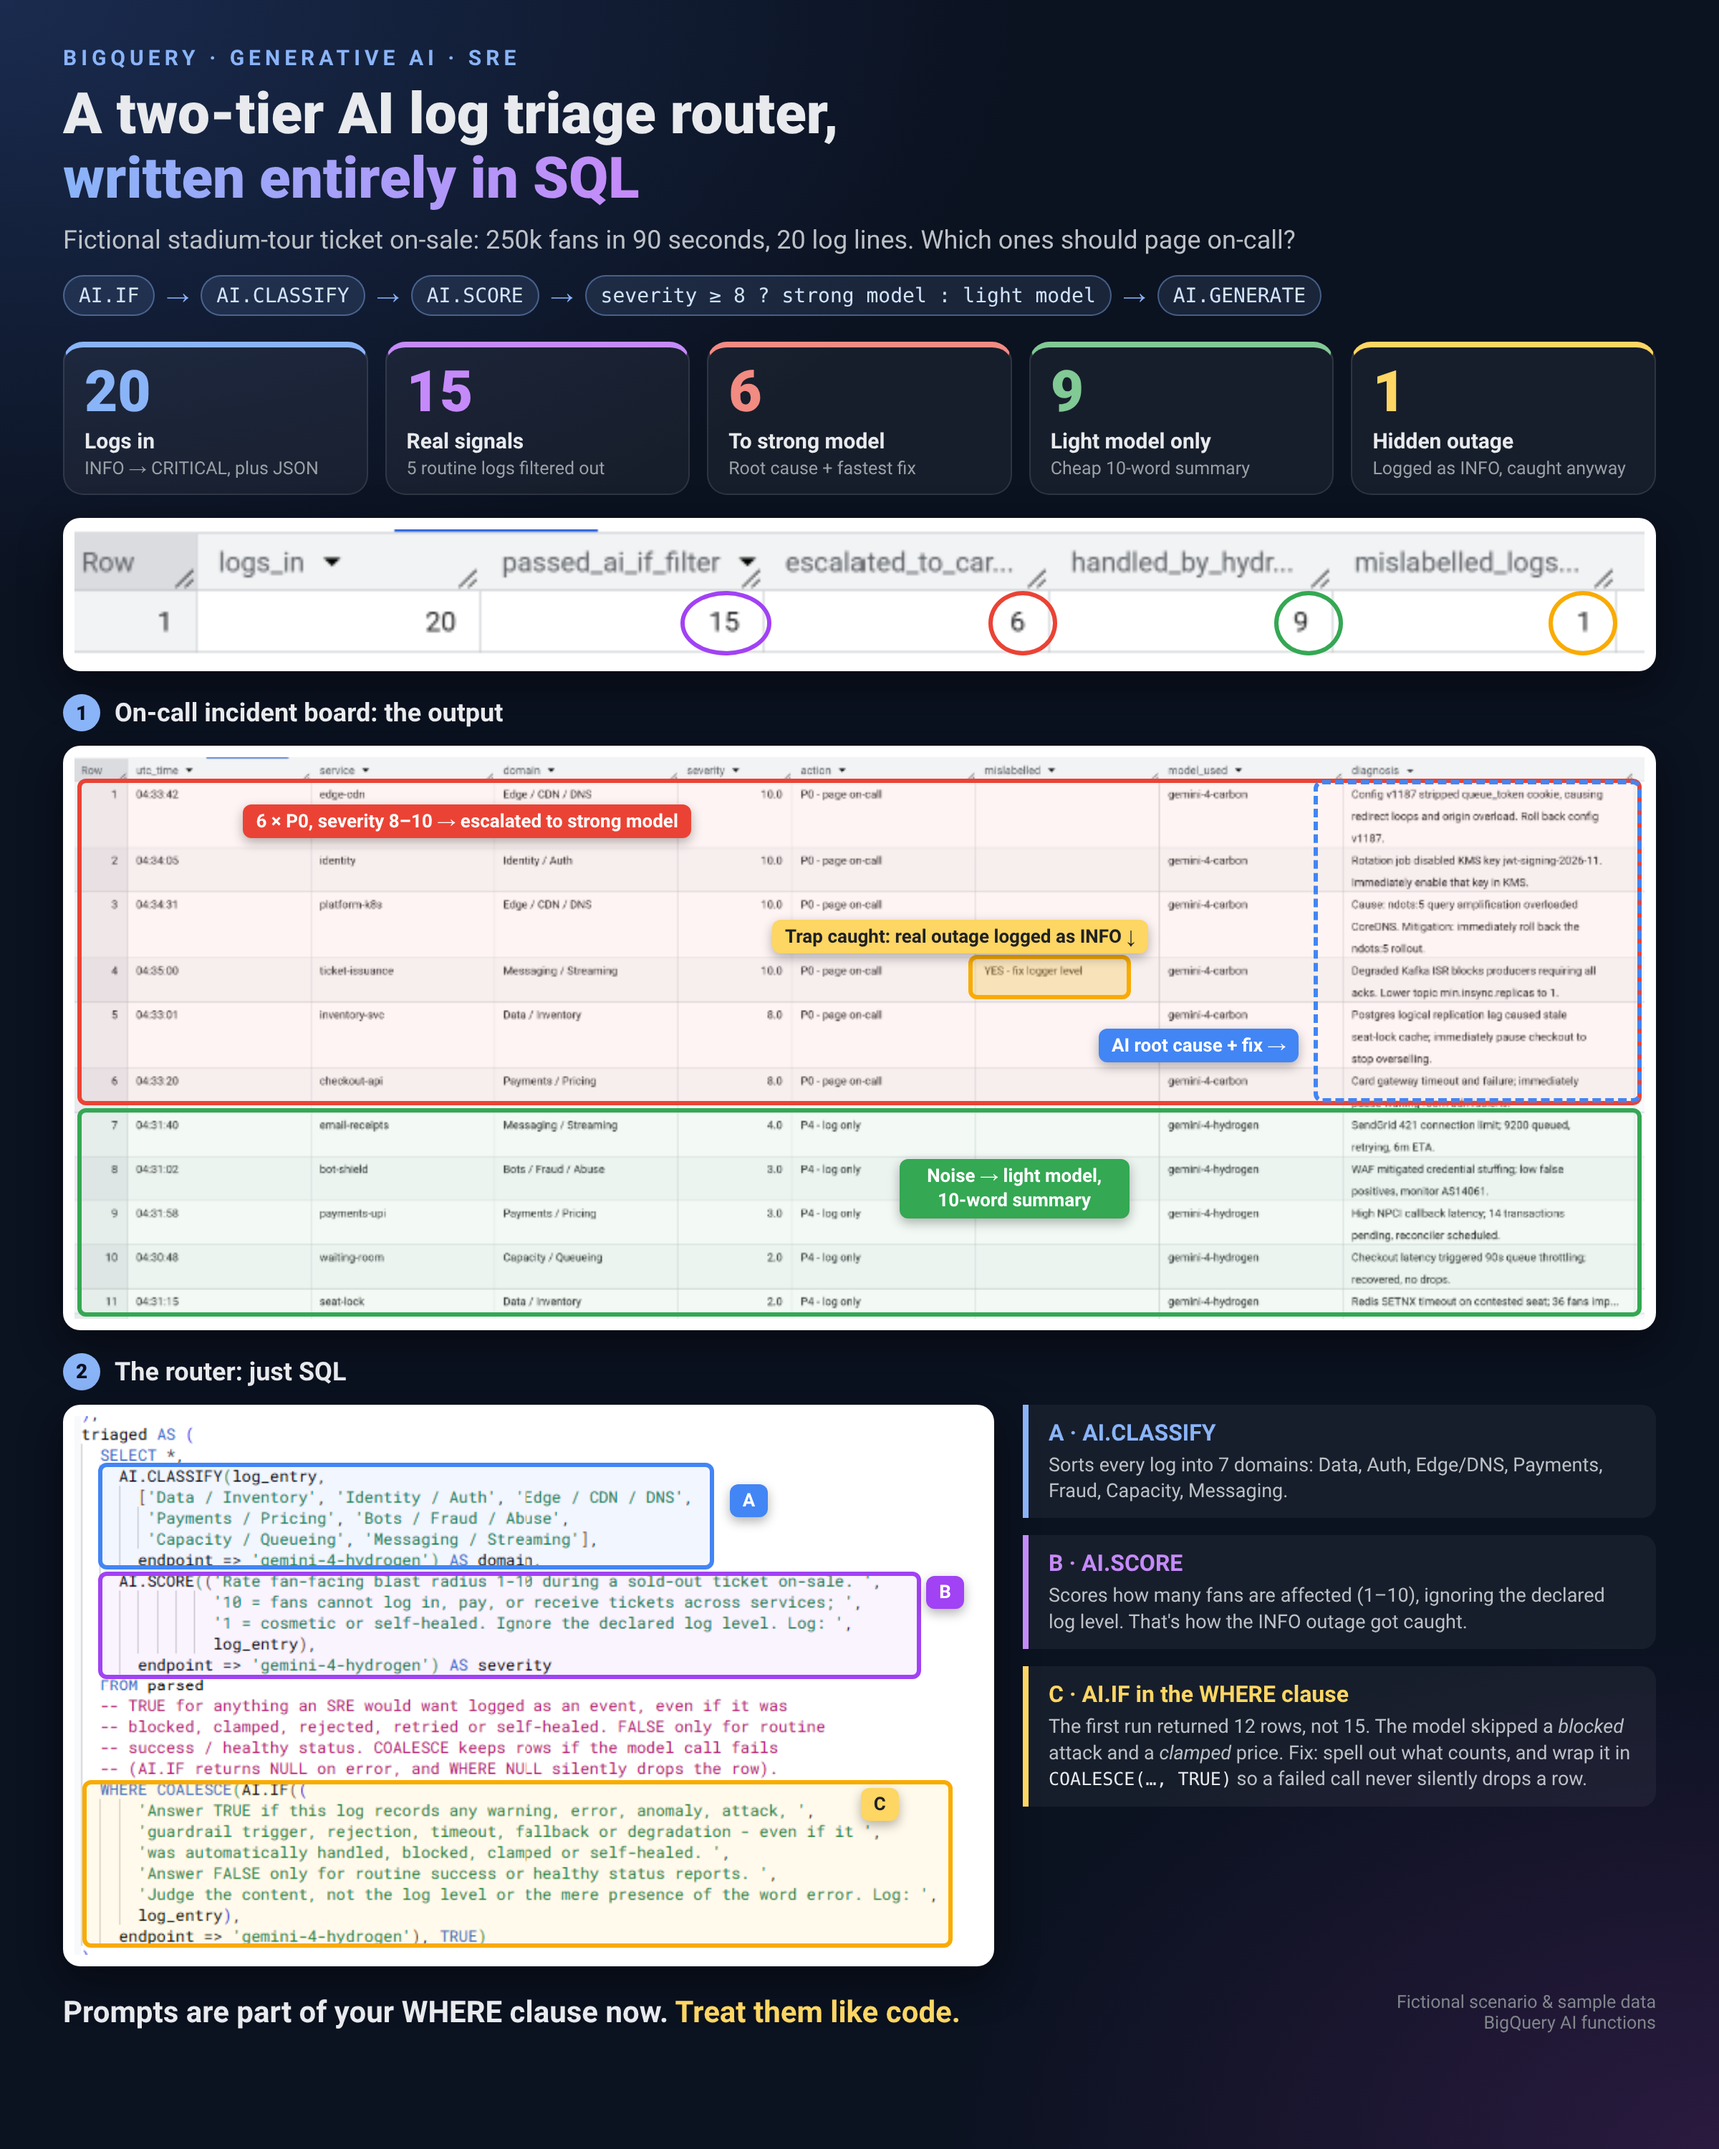
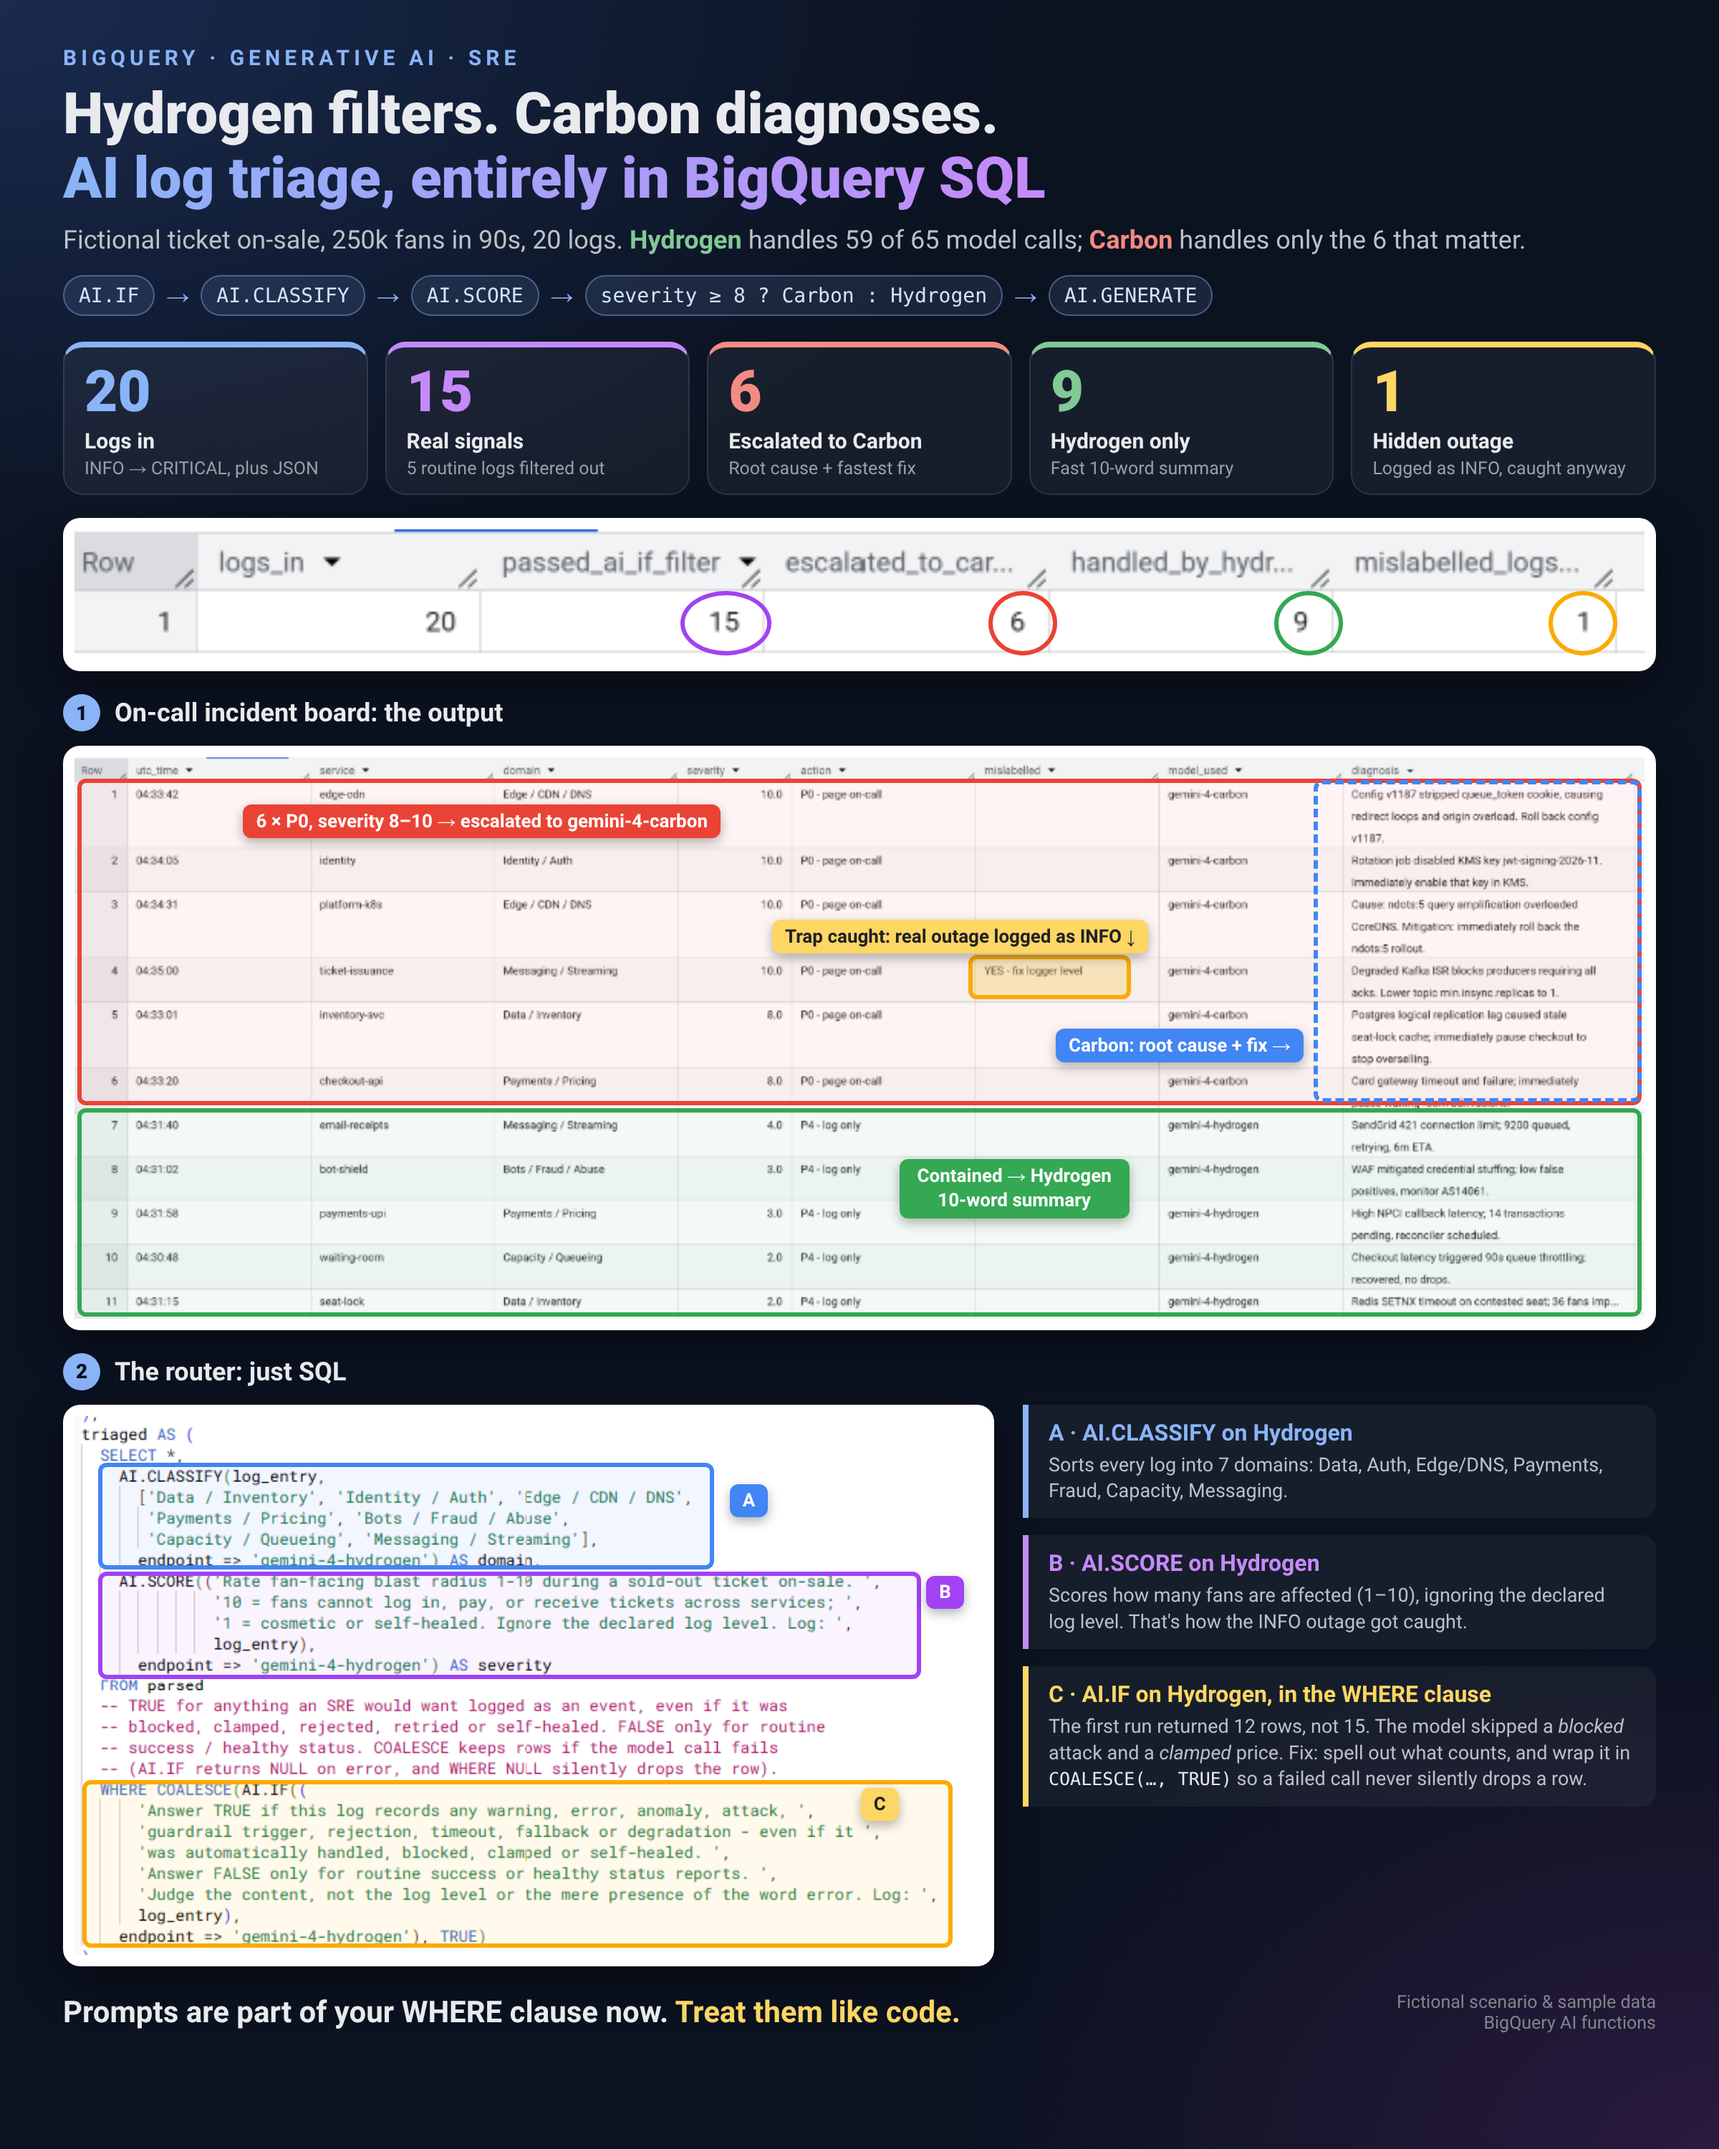
Highlight Gemini Hydrogen + Carbon tiers in README and overview image
- README: Hydrogen/Carbon headline, tier roles, diagram labels, call split (59 vs 6)
- docs/overview.png: refreshed with Hydrogen/Carbon labels

diff --git a/README.md b/README.md
@@ -1,7 +1,11 @@
 # 🎟 BigQuery AI Log Triage
 
-**A two-tier AI log triage router written entirely in BigQuery SQL.**
-`AI.IF` filters out noise, `AI.CLASSIFY` + `AI.SCORE` rank the blast radius, and only severity ≥ 8 incidents are escalated to a stronger model through `AI.GENERATE`. No pipelines, no Python, no orchestration. Just SQL.
+> ### ⚛ Hydrogen filters. Carbon diagnoses. All inside BigQuery.
+
+**A two-tier AI log triage router written entirely in BigQuery SQL, using Gemini Hydrogen and Gemini Carbon.**
+**Hydrogen** (`gemini-4-hydrogen`) runs `AI.IF`, `AI.CLASSIFY` and `AI.SCORE` on every log to filter noise and rank the blast radius. Only severity ≥ 8 incidents are escalated to **Carbon** (`gemini-4-carbon`) for root cause and fix via `AI.GENERATE`. No pipelines, no Python, no orchestration. Just SQL.
+
+**Result:** 59 of 65 model calls (~91%) ran on Hydrogen. Carbon was called only 6 times, for the incidents that mattered.
 
 ![BigQuery](https://img.shields.io/badge/BigQuery-AI%20functions-4285F4?logo=googlecloud&logoColor=white)
 ![SQL](https://img.shields.io/badge/100%25-SQL-336791)
@@ -33,20 +37,20 @@ During a high-traffic event, on-call engineers get flooded with logs. Most are r
 
 This repo shows a **model cascade** built entirely in BigQuery SQL:
 
-- A **light model** handles filtering, classification, scoring and short summaries.
-- A **strong model** is called only for the few incidents that really matter.
+- ⚡ **Hydrogen**, the fast, high-volume tier, handles filtering, classification, scoring and short summaries on every log.
+- 🧠 **Carbon**, the deep-reasoning tier, is called only for the few incidents that really matter.
 
 ## How it works
 
 ```mermaid
 flowchart LR
-    A[("cloud_logs.app_logs<br/>20 raw log lines")] --> B{"AI.IF<br/>real signal?"}
+    A[("cloud_logs.app_logs<br/>20 raw log lines")] --> B{"Hydrogen: AI.IF<br/>real signal?"}
     B -- "no (routine)" --> X["dropped"]
-    B -- yes --> C["AI.CLASSIFY<br/>7 domains"]
-    C --> D["AI.SCORE<br/>blast radius 1-10"]
+    B -- yes --> C["Hydrogen: AI.CLASSIFY<br/>7 domains"]
+    C --> D["Hydrogen: AI.SCORE<br/>blast radius 1-10"]
     D --> E{"severity ≥ 8?"}
-    E -- yes --> F["Strong model<br/>AI.GENERATE<br/>root cause + fix"]
-    E -- no --> G["Light model<br/>AI.GENERATE<br/>10-word summary"]
+    E -- yes --> F["Carbon<br/>AI.GENERATE<br/>root cause + fix"]
+    E -- no --> G["Hydrogen<br/>AI.GENERATE<br/>10-word summary"]
     F --> H[("cloud_logs.triage_results")]
     G --> H
     H --> R["Reports<br/>no AI calls"]
@@ -54,11 +58,11 @@ flowchart LR
 
 | Stage | Function | Model | Output |
 |---|---|---|---|
-| Filter | `AI.IF` | light (`gemini-4-hydrogen`) | `BOOL`: keep or drop |
-| Classify | `AI.CLASSIFY` | light | one of 7 domains |
-| Score | `AI.SCORE` | light | `FLOAT64` blast radius 1–10 |
-| Diagnose (severity ≥ 8) | `AI.GENERATE` | **strong** (`gemini-4-carbon`) | root cause + fastest mitigation (≤ 16 words) |
-| Diagnose (severity < 8) | `AI.GENERATE` | light | triage summary (≤ 10 words) |
+| Filter | `AI.IF` | **Hydrogen** (`gemini-4-hydrogen`) | `BOOL`: keep or drop |
+| Classify | `AI.CLASSIFY` | Hydrogen | one of 7 domains |
+| Score | `AI.SCORE` | Hydrogen | `FLOAT64` blast radius 1–10 |
+| Diagnose (severity ≥ 8) | `AI.GENERATE` | **Carbon** (`gemini-4-carbon`) | root cause + fastest mitigation (≤ 16 words) |
+| Diagnose (severity < 8) | `AI.GENERATE` | Hydrogen | triage summary (≤ 10 words) |
 
 The router also computes, with plain SQL:
 - `action`: `P0 - page on-call` (≥ 8) / `P2 - open ticket` (≥ 5) / `P4 - log only`
@@ -72,8 +76,8 @@ The router also computes, with plain SQL:
 | Tier | Count | Examples | Expected route |
 |---|---|---|---|
 | Routine INFO | 5 | queue open, seat-map publish, CDN purge, push batch, SLO report | dropped by `AI.IF` |
-| Single-service WARN/ERROR | 9 | bot attack blocked, seat-lock race, price guardrail, SMTP 421, slow UPI callbacks, model drift, resale rejection (**JSON**), cosmetic gRPC timeout | light model |
-| Cascading P0 | 6 | oversold seats, checkout circuit breaker open, CDN cookie-strip redirect loop, disabled JWT signing key, CoreDNS NXDOMAIN storm, ticket issuance stalled | **strong model** |
+| Single-service WARN/ERROR | 9 | bot attack blocked, seat-lock race, price guardrail, SMTP 421, slow UPI callbacks, model drift, resale rejection (**JSON**), cosmetic gRPC timeout | Hydrogen |
+| Cascading P0 | 6 | oversold seats, checkout circuit breaker open, CDN cookie-strip redirect loop, disabled JWT signing key, CoreDNS NXDOMAIN storm, ticket issuance stalled | **Carbon** |
 
 ### 🪤 Trap #1: the word "error" in a healthy log
 ```
@@ -107,7 +111,7 @@ bq query --use_legacy_sql=false < sql/03_reports.sql              # reports (no 
 ```
 
 > [!TIP]
-> **Model endpoints:** the scripts use `gemini-4-hydrogen` (light) and `gemini-4-carbon` (strong). To use other models, find and replace those two names across `sql/` and `diagnostics/`.
+> **Model endpoints:** the scripts use `gemini-4-hydrogen` (Hydrogen, fast tier) and `gemini-4-carbon` (Carbon, deep-reasoning tier). To use other models, find and replace those two names across `sql/` and `diagnostics/`.
 
 ## Results
 
@@ -159,8 +163,12 @@ Use [`diagnostics/find_dropped_rows.sql`](diagnostics/find_dropped_rows.sql) to 
 ## Cost and design notes
 
 - **Results are saved once.** Step 2 writes `cloud_logs.triage_results`, and all three reports read from it with **0 AI calls**.
-- **The cascade cuts strong-model calls:** of 20 logs, only **6** reach the strong model. The other 15 are handled entirely by the light model (5 dropped, 9 summarised).
-- **Calls per full run:** about 20 `AI.IF`, 15 `AI.CLASSIFY`, 15 `AI.SCORE` and 15 `AI.GENERATE`.
+- **Hydrogen carries the volume, Carbon carries the depth:**
+
+  | Model | AI.IF | AI.CLASSIFY | AI.SCORE | AI.GENERATE | Total |
+  |---|---:|---:|---:|---:|---:|
+  | Hydrogen | 20 | 15 | 15 | 9 | **59 (~91%)** |
+  | Carbon | – | – | – | 6 | **6 (~9%)** |
 - **Mixed formats:** plain-text and JSON log lines are parsed in the same query (`STARTS_WITH(log_entry, '{')`).
 
 ## Adapting it to your logs
